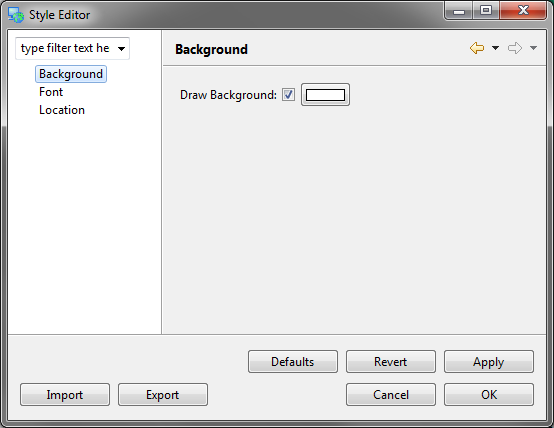
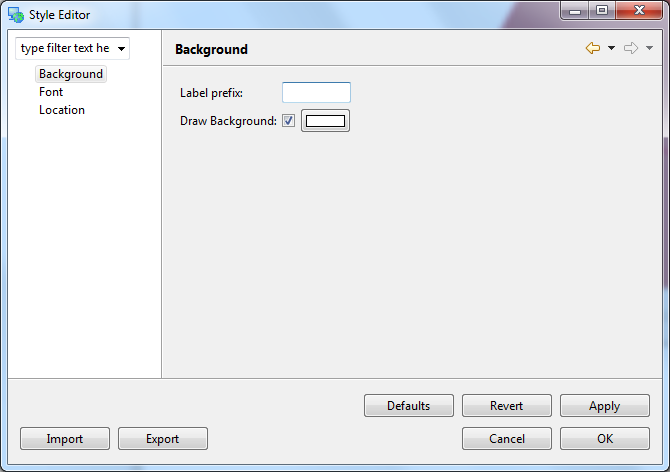
update documentation pages related to map scale

diff --git a/docs/user/en/reference/Mapscale Decoration.rst b/docs/user/en/reference/Mapscale Decoration.rst
@@ -10,7 +10,7 @@ The map scale decoration is used to provide an in map indication of the current 
 Map Scale Style Pages
 ---------------------
 
-You can determine if you want a background (and select the color):
+You can determine if you want a background (and select the color) and/or add a textual label prefix:
 
 .. figure:: /images/mapscale_decoration/Mapscale-background-style.png
    :align: center

diff --git a/docs/user/en/reference/Style Pages.rst b/docs/user/en/reference/Style Pages.rst
@@ -23,6 +23,8 @@ The style pages used by Map Graphics are each unique; for more information pleas
 
 * :doc:`Scalebar Decoration`
 
+* :doc:`Mapscale Decoration`
+
 * :doc:`The Processing Region`
 
 * :doc:`Graticule Decoration`
